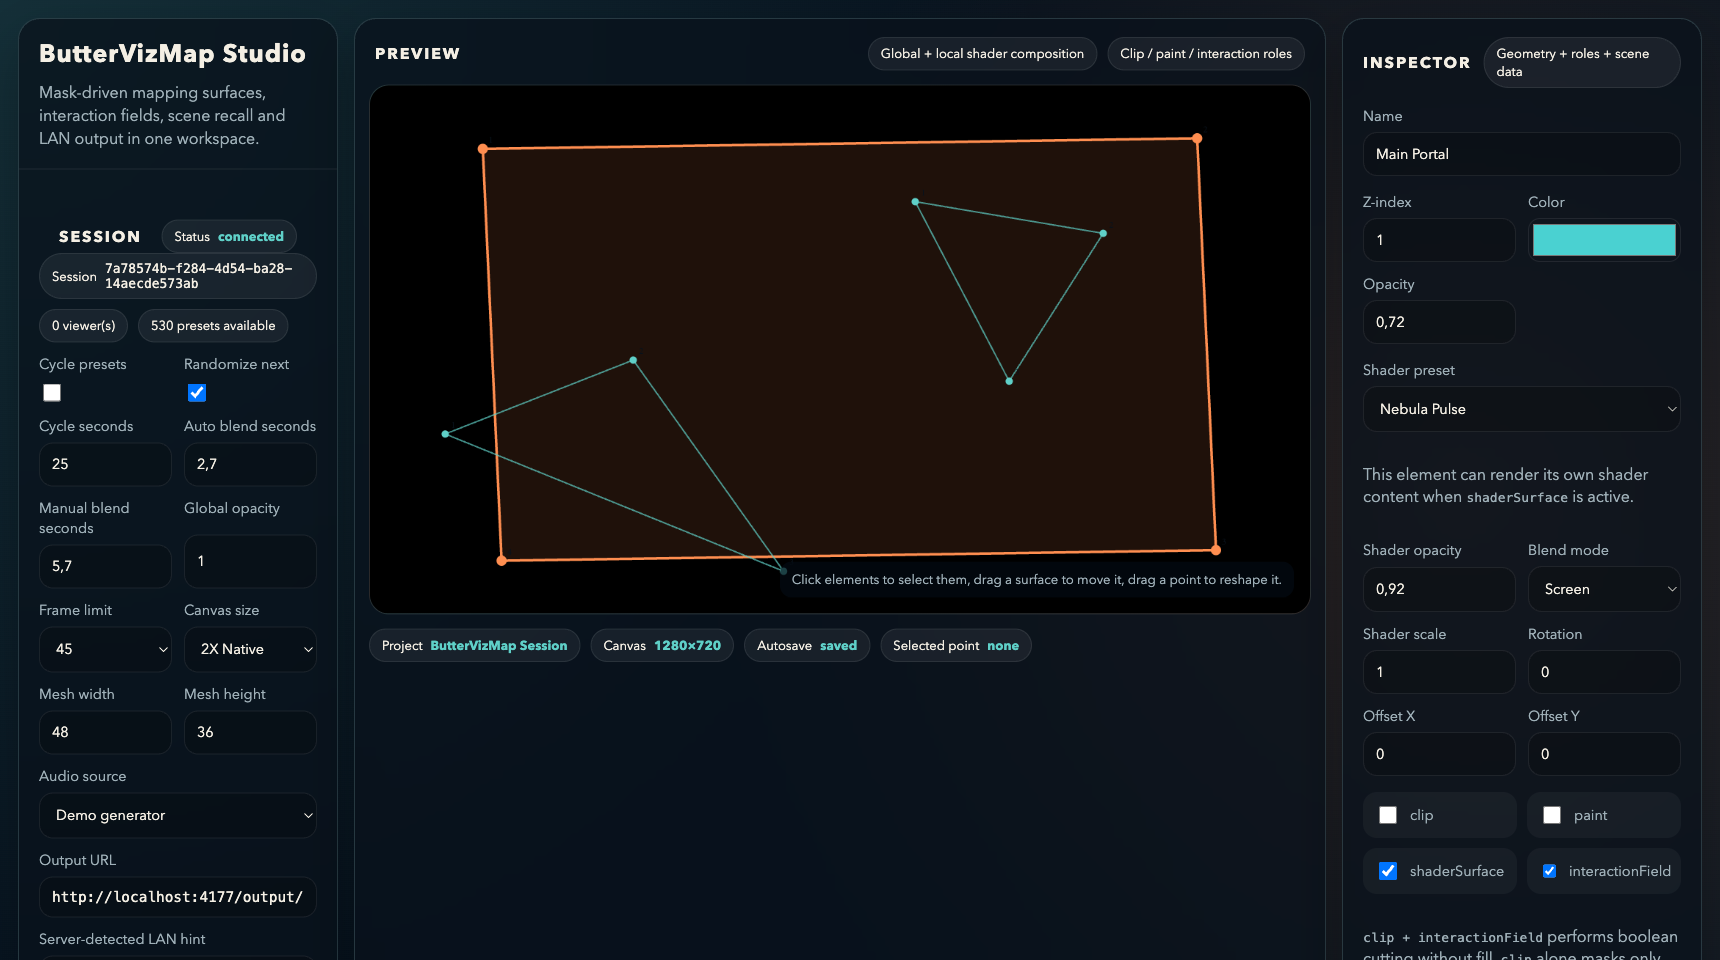
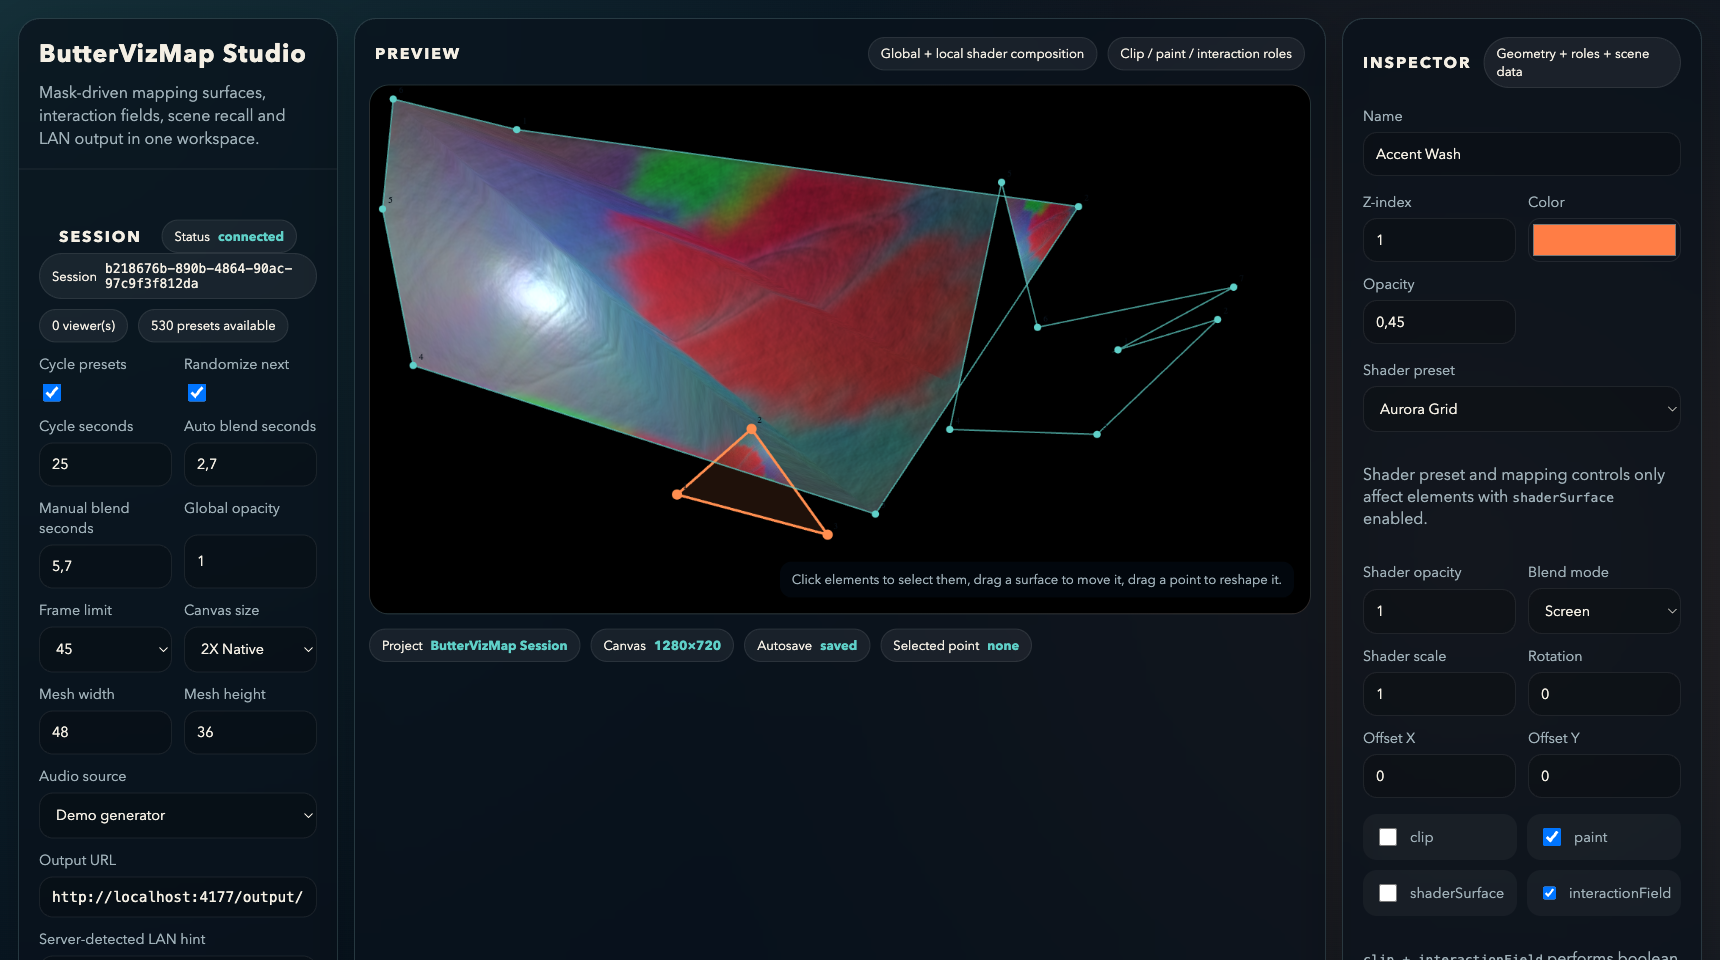
docs: update screenshots from imported studio project

diff --git a/README.md b/README.md
@@ -61,9 +61,9 @@ Admin route (`/admin`) on desktop:
 
 ![VizMap Studio Admin Desktop](docs/screenshots/ui-admin-desktop.png)
 
-Output route (`/output/:sessionId`) on desktop:
+Preview canvas detail from the admin route:
 
-![VizMap Studio Output Desktop](docs/screenshots/ui-output-desktop.png)
+![VizMap Studio Preview Canvas](docs/screenshots/ui-preview-canvas.png)
 
 Admin route (`/admin`) mobile viewport:
 
